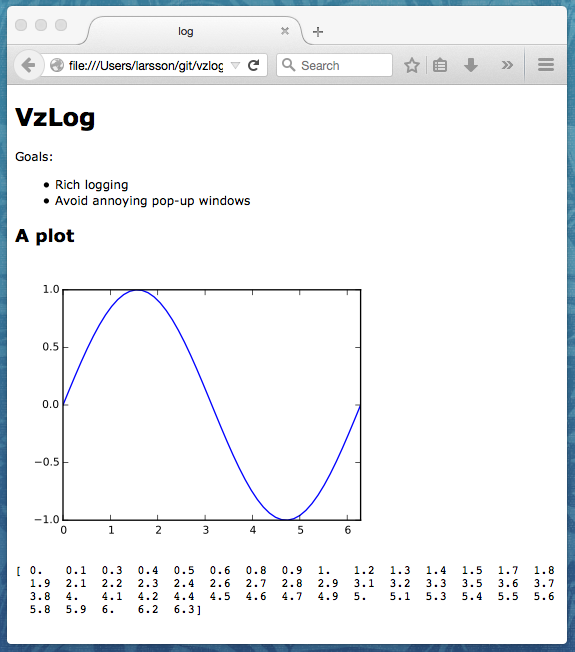
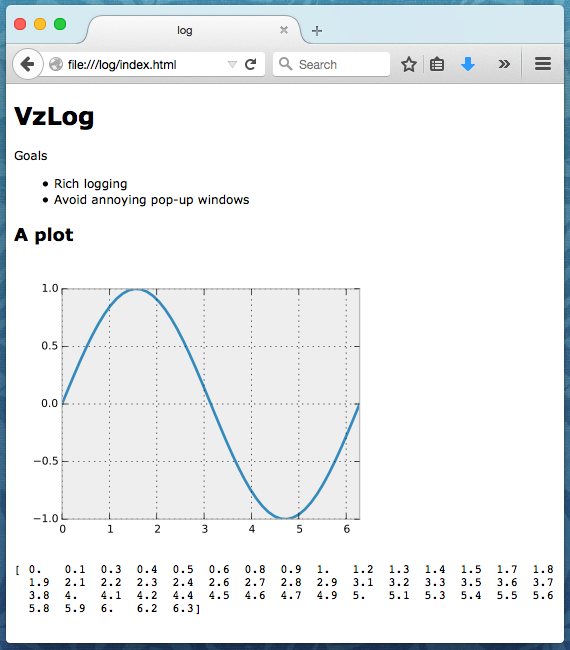
Added default pyplot loading.

diff --git a/examples/doc_example1.py b/examples/doc_example1.py
@@ -1,8 +1,5 @@
 from vzlog import VzLog
-import matplotlib as mpl
-mpl.use('Agg')
-mpl.rc('font', size=8)
-import pylab as pl
+import vzlog.pyplot as plt
 import numpy as np
 
 vz = VzLog('log')
@@ -13,10 +10,10 @@ vz.items(['Rich logging', 'Avoid annoying pop-up windows'])
 
 vz.section('A plot')
 x = np.linspace(0, 2*np.pi)
-fig = pl.figure(figsize=(4, 3))
-pl.plot(x, np.sin(x))
-pl.xlim((0, 2*np.pi))
-pl.savefig(vz.impath('svg'))
+fig = plt.figure(figsize=(4, 3))
+plt.plot(x, np.sin(x))
+plt.xlim((0, 2*np.pi))
+plt.savefig(vz.impath('svg'))
 
 np.set_printoptions(precision=1)
 vz.log(x)

diff --git a/vzlog/pyplot.py b/vzlog/pyplot.py
@@ -1,0 +1,7 @@
+from __future__ import division, print_function, absolute_import
+
+import matplotlib
+matplotlib.use('Agg')
+matplotlib.rc('font', size=8)
+from matplotlib.pyplot import *
+style.use('bmh')

diff --git a/doc/source/tutorial.rst b/doc/source/tutorial.rst
@@ -18,7 +18,7 @@ is an example:
 
 .. literalinclude:: ../../examples/doc_example1.py
 
-With the output:
+With the output saved to ``log/index.html``:
 
 .. image:: img/doc_example1.png
 
@@ -59,3 +59,19 @@ You can also set these up more permanently by adding them to your
 In this example, your document file will be placed in
 ``~/html/plot/index.html`` and the file rights 0775 mean that user/group can
 read, write and execute and the rest can read and execute.
+
+Plotting with matplotlib
+------------------------
+When you are plotting directly to file, you want to tell matplotlib not to
+start an interactive session. You can do this as follows::
+
+    import matplotlib
+    matplotlib.use('Agg')
+    import matplotlib.pyplot as plt
+
+Since this is such a common use case in vzlog, the following short-hand will do
+this automatically::
+
+    import vzlog.pyplot as plt
+
+This will also tweak the rendering style.

diff --git a/README.rst b/README.rst
@@ -1,8 +1,8 @@
 vzlog
 =====
 
-Tool for logging rich content to an HTML file. It has two main
-advantages over interactive logging:
+Tool for logging rich content to an HTML file. It has two main advantages over
+interactive logging:
 
 * You can run experiments with loads of output, without having to be halted by
   an interactive plot. If you solve this by dumping plots to individual images,
@@ -34,12 +34,13 @@ Features
 Example
 -------
 Apart from commands that print text, the key command here is ``vz.impath``,
-which returns an image path. The path is at the same time added to the log output:
+which returns an image path. The path is at the same time added to the log
+output:
 
 .. code:: python
 
     from vzlog import VzLog
-    
+
     vz = VzLog('mylog')
     vz.title('Plots')
     vz.section('Silly plot')
